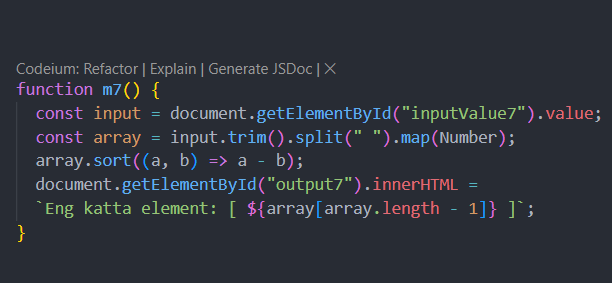
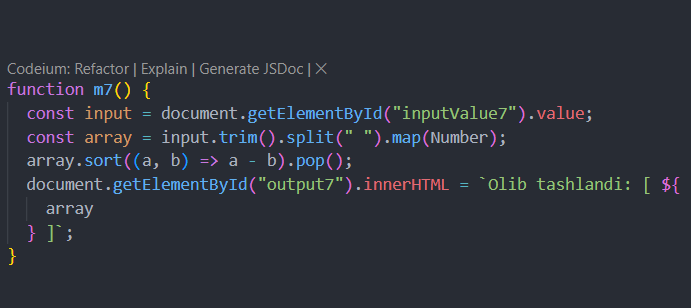
Fixed

diff --git a/app.js b/app.js
@@ -32,6 +32,10 @@ function m3() {
     "output3"
   ).innerHTML = `Kvadratdga oshirilgan arr:<br> ${result}`;
 }
+
+
+
+
 function m4() {
   const input = document.getElementById("inputValue4").value;
   const array = input.trim().split(" ").map(Number);
@@ -49,8 +53,17 @@ function m4() {
   }
   return (document.getElementById(
     "output4"
-  ).innerHTML = `Takrorlanmas elementlar o'chirildi: <br>  [ ${array} ]`);
+  ).innerHTML = `Takrorlangan elementlar o'chirildi: <br>  [ ${array} ]`);
 }
+
+
+
+
+
+
+
+
+
 function m5() {
   const n = +document.getElementById("n").value;
   const input = document.getElementById("inputValue5").value;
@@ -78,14 +91,19 @@ function m6() {
     }
   }
 }
+
+
+
 function m7() {
   const input = document.getElementById("inputValue7").value;
   const array = input.trim().split(" ").map(Number);
-  array.sort((a, b) => a - b);
-  document.getElementById("output7").innerHTML = `Eng katta element: [ ${
-    array[array.length - 1]
+  array.sort((a, b) => a - b).pop();
+  document.getElementById("output7").innerHTML = `Olib tashlandi: [ ${
+    array
   } ]`;
 }
+
+
 
 function m8() {
   const input = document.getElementById("inputValue8").value;
@@ -180,5 +198,4 @@ var swiper = new Swiper(".mySwiper", {
     el: ".swiper-pagination",
   },
 });
-
 
